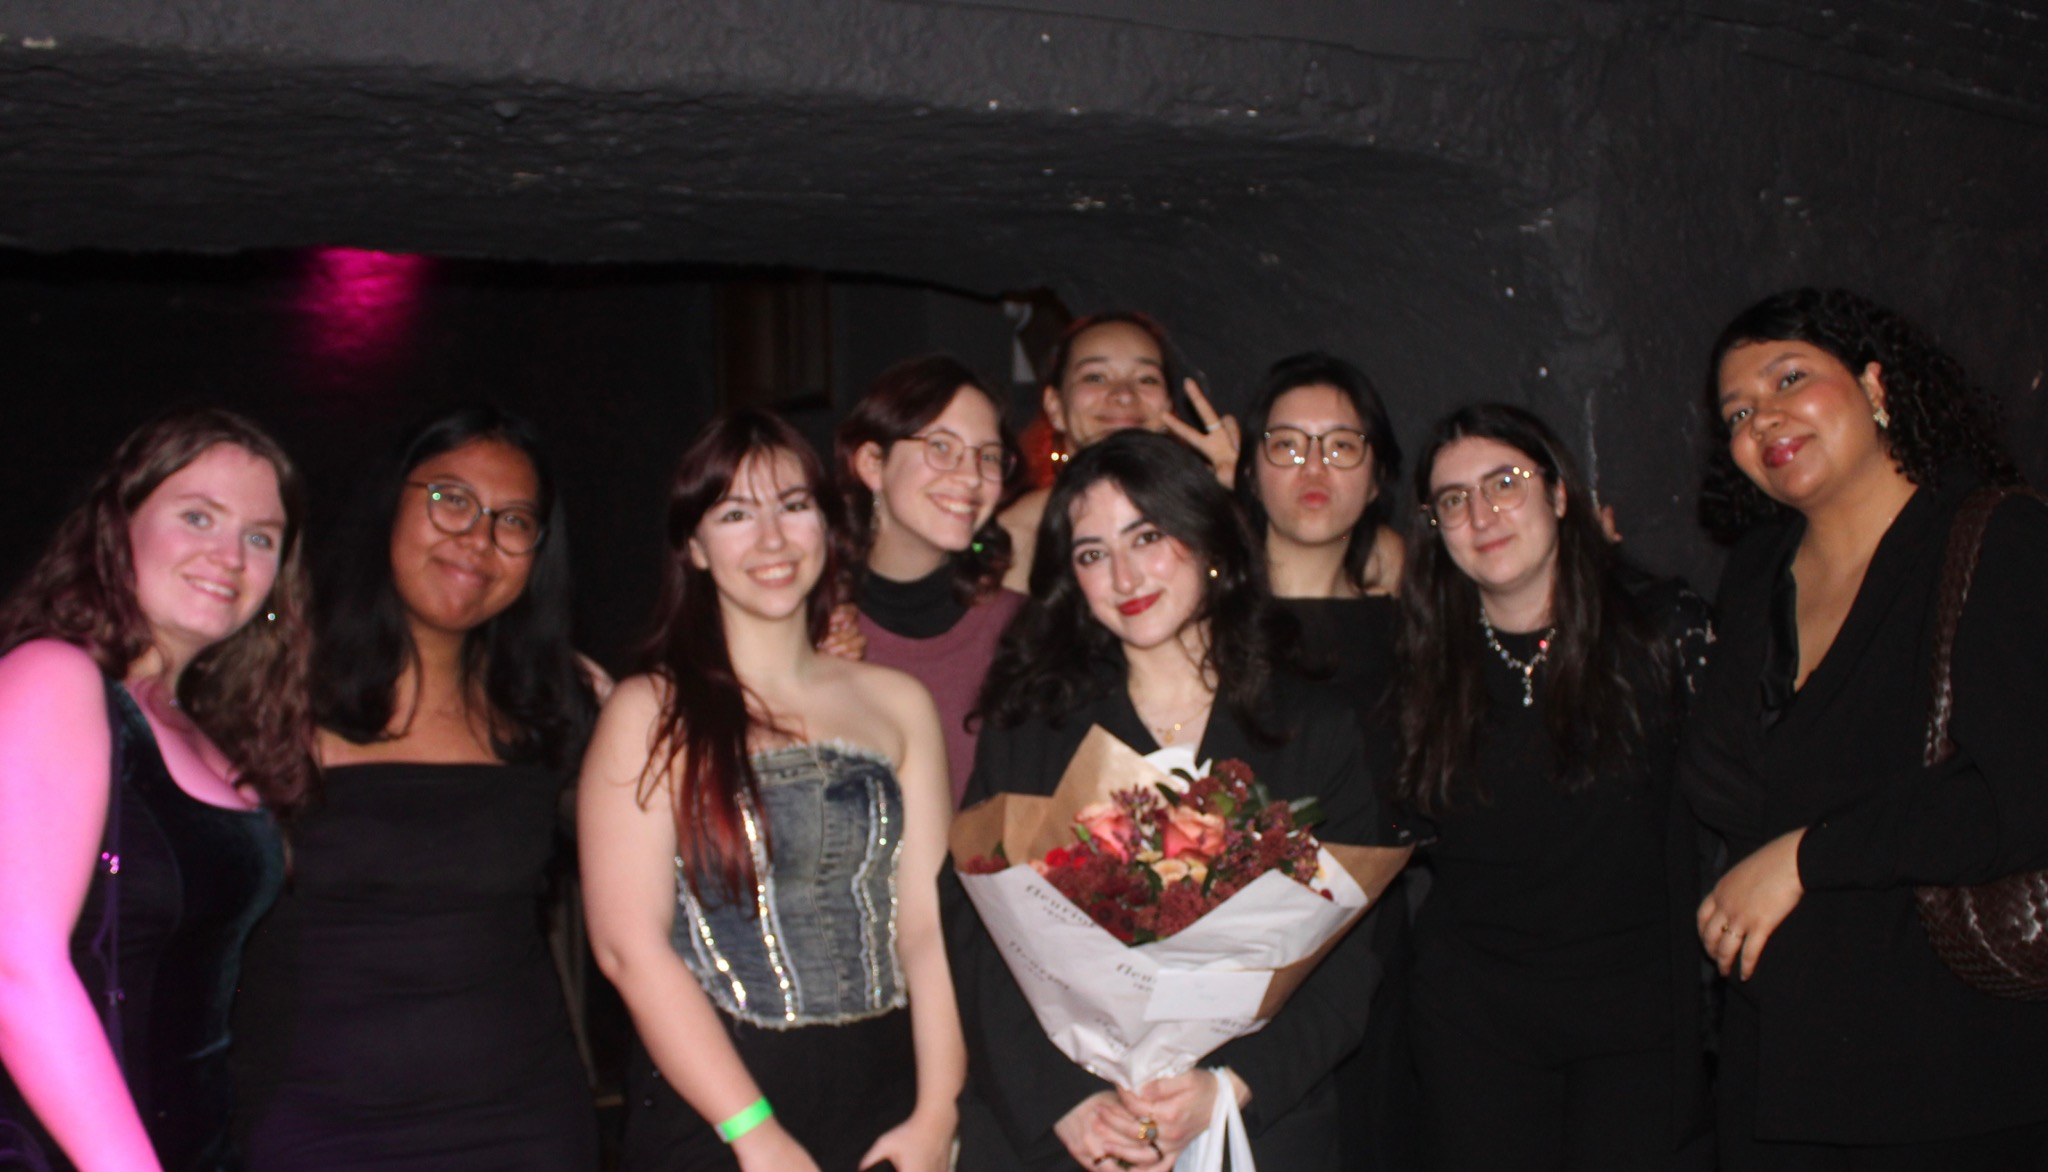
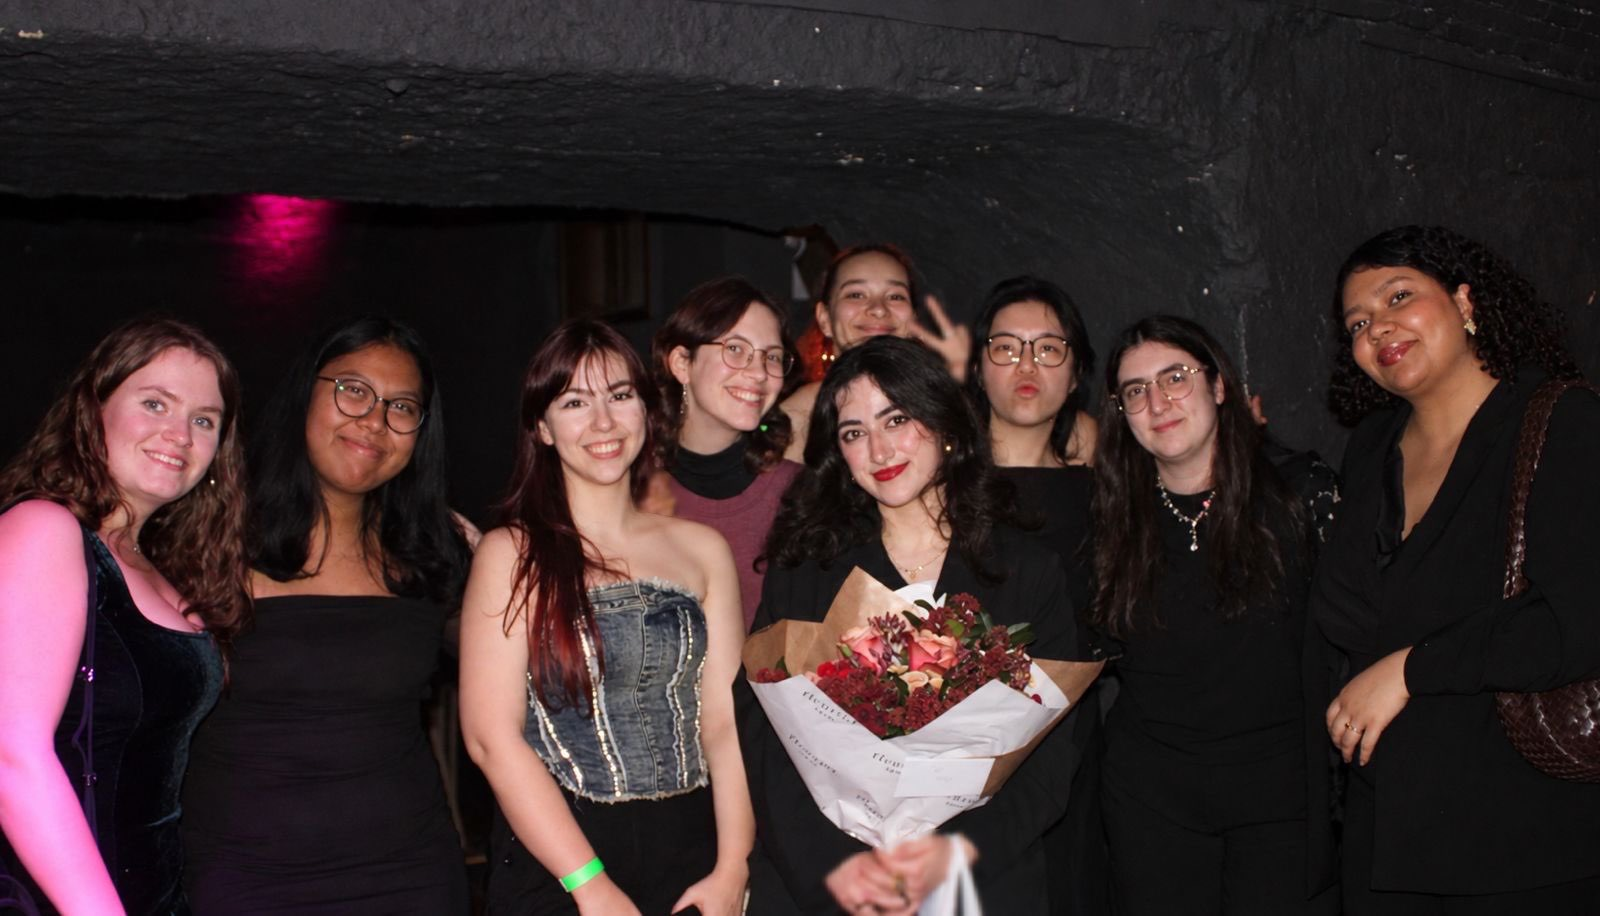
Update Business Development and Marketing photos and introduce Our Teams

diff --git a/index.html b/index.html
@@ -59,7 +59,7 @@
         <div class="section-heading">
           <div>
             <p class="eyebrow">Find your place</p>
-            <h2>Our departments</h2>
+            <h2>Our Teams</h2>
             <p style="margin:16px 0 0;color:var(--muted);max-width:620px">Explore each department's role, responsibilities and team.</p>
           </div>
         </div>
@@ -82,7 +82,7 @@
             <span class="card-body"><span class="card-number">04</span><strong>Finance and Legalities</strong><span>Keep our operations healthy and compliant.</span><span class="card-arrow" aria-hidden="true">&rarr;</span></span>
           </button>
           <button class="department-card" type="button" data-department="business" aria-haspopup="dialog">
-            <img src="assets/business-development.jpg?v=6d2fe7b4b4d1" alt="" width="1280" height="720" loading="lazy">
+            <img src="assets/business-development.jpg?v=fa41f36842e7" alt="" width="1280" height="720" loading="lazy">
             <span class="card-body"><span class="card-number">05</span><strong>Business Development</strong><span>Create partnerships and grow our impact.</span><span class="card-arrow" aria-hidden="true">&rarr;</span></span>
           </button>
           <button class="department-card" type="button" data-department="engage" aria-haspopup="dialog">
@@ -90,7 +90,7 @@
             <span class="card-body"><span class="card-number">06</span><strong>Engage with AIESEC</strong><span>Bring meaningful student events to life.</span><span class="card-arrow" aria-hidden="true">&rarr;</span></span>
           </button>
           <button class="department-card" type="button" data-department="marketing" aria-haspopup="dialog">
-            <img src="assets/marketing-communication.jpg?v=ba7ed4ec0924" alt="" width="1280" height="719" loading="lazy">
+            <img src="assets/marketing-communication.jpg?v=1502b5f71dfb" alt="" width="1280" height="719" loading="lazy">
             <span class="card-body"><span class="card-number">07</span><strong>Marketing and Communication</strong><span>Shape our voice and digital presence.</span><span class="card-arrow" aria-hidden="true">&rarr;</span></span>
           </button>
           <button class="department-card" type="button" data-department="relations" aria-haspopup="dialog">
@@ -152,13 +152,13 @@
     <article class="dialog-department"><img src="assets/finance-legalities.jpg?v=91dd61a0d931" alt="Finance and Legalities team at AIESEC in Geneva" width="1280" height="719"><div class="dialog-copy"><p class="department-number">04 / 08</p><h2 id="dialog-title">Finance and Legalities</h2><h3>Join F&amp;L and drive financial excellence in AIESEC</h3><p>The Finance and Legalities (F&amp;L) department is the backbone of AIESEC, ensuring the organization operates smoothly, transparently and sustainably. Aligned with AIESEC's global seven Finance Standards, F&amp;L plays a crucial role in maintaining financial health and legal compliance.</p><h4>As part of F&amp;L, you will:</h4><ul><li><strong>Manage budgets and financial planning</strong> to ensure efficient resource allocation.</li><li><strong>Handle transactions and accounting</strong> for smooth financial operations.</li><li><strong>Oversee legal compliance</strong> to ensure AIESEC operates within regulations.</li><li><strong>Conduct audits and risk management</strong> to maintain transparency and security.</li><li><strong>Work collaboratively on investments and financial strategy</strong> for long-term growth.</li></ul><p class="fit-note">If you are interested in finance, accounting or law and want to develop essential skills in financial management, F&amp;L is the place to gain hands-on experience.</p></div></article>
   </template>
   <template id="department-business">
-    <article class="dialog-department"><img src="assets/business-development.jpg?v=6d2fe7b4b4d1" alt="Business Development team at AIESEC in Geneva" width="1280" height="720"><div class="dialog-copy"><p class="department-number">05 / 08</p><h2 id="dialog-title">Business Development</h2><h3>Join BD and build game-changing partnerships</h3><p>The Business Development (BD) department is all about creating strategic partnerships that support AIESEC's initiatives and events. From securing sponsorships to collaborating with local businesses, BD plays a key role in enhancing the quality and impact of our activities.</p><h4>As part of BD, you will:</h4><ul><li><strong>Secure sponsorships and in-kind partnerships</strong> to fund and improve our events.</li><li><strong>Engage with local businesses</strong> through collaborations and giveaways.</li><li><strong>Research and reach out to potential partners</strong> via email, phone and direct meetings.</li><li><strong>Represent AIESEC in networking spaces</strong> by pitching our vision and forging meaningful connections.</li></ul><p class="fit-note">If you love negotiation, networking and business strategy, BD is where you can make a real impact while developing professional skills.</p></div></article>
+    <article class="dialog-department"><img src="assets/business-development.jpg?v=fa41f36842e7" alt="Business Development team at AIESEC in Geneva" width="1280" height="720"><div class="dialog-copy"><p class="department-number">05 / 08</p><h2 id="dialog-title">Business Development</h2><h3>Join BD and build game-changing partnerships</h3><p>The Business Development (BD) department is all about creating strategic partnerships that support AIESEC's initiatives and events. From securing sponsorships to collaborating with local businesses, BD plays a key role in enhancing the quality and impact of our activities.</p><h4>As part of BD, you will:</h4><ul><li><strong>Secure sponsorships and in-kind partnerships</strong> to fund and improve our events.</li><li><strong>Engage with local businesses</strong> through collaborations and giveaways.</li><li><strong>Research and reach out to potential partners</strong> via email, phone and direct meetings.</li><li><strong>Represent AIESEC in networking spaces</strong> by pitching our vision and forging meaningful connections.</li></ul><p class="fit-note">If you love negotiation, networking and business strategy, BD is where you can make a real impact while developing professional skills.</p></div></article>
   </template>
   <template id="department-engage">
     <article class="dialog-department"><img src="assets/engage-with-aiesec.jpg?v=07564f299d05" alt="Engage with AIESEC team in Geneva" width="1280" height="720"><div class="dialog-copy"><p class="department-number">06 / 08</p><h2 id="dialog-title">Engage with AIESEC (Project)</h2><h3>Join EwA and bring AIESEC to life on campus</h3><p>The Engage with AIESEC (EwA) department is the creative force behind all AIESEC events at the University of Geneva. Our mission is to organize impactful events that promote AIESEC's values and the UN Sustainable Development Goals (SDGs), inspiring students to take action.</p><h4>As part of EwA, you will:</h4><ul><li><strong>Plan and execute major events</strong> that engage and inspire students.</li><li><strong>Develop essential skills</strong> in event management, logistics and problem-solving.</li><li><strong>Collaborate with multiple departments</strong> including Marketing, Finance and BD to bring events to life.</li><li><strong>Gain a global perspective on AIESEC</strong> while making a tangible impact on campus.</li></ul><p class="fit-note">If you love event planning, teamwork and creating unforgettable experiences, EwA is the place for you.</p></div></article>
   </template>
   <template id="department-marketing">
-    <article class="dialog-department"><img src="assets/marketing-communication.jpg?v=ba7ed4ec0924" alt="Marketing and Communication team at AIESEC in Geneva" width="1280" height="719"><div class="dialog-copy"><p class="department-number">07 / 08</p><h2 id="dialog-title">Marketing and Communication</h2><h3>Join Marketing and Communication and shape AIESEC's voice</h3><p>The Marketing and Communication department is the driving force behind AIESEC in Geneva's brand identity, ensuring our message reaches and inspires the right audience. We blend creativity with strategy to engage students through digital content, campaigns and promotional materials.</p><h4>As part of Marketing and Communication, you will:</h4><ul><li><strong>Manage AIESEC's social media presence</strong> on Instagram, TikTok, LinkedIn and more.</li><li><strong>Create engaging content</strong> from eye-catching graphics to compelling videos.</li><li><strong>Develop strategic marketing campaigns</strong> to boost visibility and engagement.</li><li><strong>Align global branding with local innovation</strong> for maximum impact.</li></ul><p class="fit-note">If you are passionate about content creation, branding and digital marketing, this is your chance to bring your creativity to life and make a real impact.</p></div></article>
+    <article class="dialog-department"><img src="assets/marketing-communication.jpg?v=1502b5f71dfb" alt="Marketing and Communication team at AIESEC in Geneva" width="1280" height="719"><div class="dialog-copy"><p class="department-number">07 / 08</p><h2 id="dialog-title">Marketing and Communication</h2><h3>Join Marketing and Communication and shape AIESEC's voice</h3><p>The Marketing and Communication department is the driving force behind AIESEC in Geneva's brand identity, ensuring our message reaches and inspires the right audience. We blend creativity with strategy to engage students through digital content, campaigns and promotional materials.</p><h4>As part of Marketing and Communication, you will:</h4><ul><li><strong>Manage AIESEC's social media presence</strong> on Instagram, TikTok, LinkedIn and more.</li><li><strong>Create engaging content</strong> from eye-catching graphics to compelling videos.</li><li><strong>Develop strategic marketing campaigns</strong> to boost visibility and engagement.</li><li><strong>Align global branding with local innovation</strong> for maximum impact.</li></ul><p class="fit-note">If you are passionate about content creation, branding and digital marketing, this is your chance to bring your creativity to life and make a real impact.</p></div></article>
   </template>
   <template id="department-relations">
     <article class="dialog-department"><img src="assets/public-relations.jpg?v=34f6ef0c843f" alt="Public Relations team at AIESEC in Geneva" width="1280" height="719"><div class="dialog-copy"><p class="department-number">08 / 08</p><h2 id="dialog-title">Public Relations</h2><h3>Join PR and elevate AIESEC's presence</h3><p>The Public Relations (PR) department is the bridge between AIESEC and the external world, shaping our public image and fostering valuable connections. Through media outreach, strategic partnerships and high-impact networking, PR ensures that AIESEC remains a recognized and trusted organization.</p><h4>As part of PR, you will:</h4><ul><li><strong>Build and maintain relationships</strong> with businesses, institutions and media representatives.</li><li><strong>Manage AIESEC's public image</strong> through strategic communication and media outreach.</li><li><strong>Create networking opportunities</strong> to expand our influence and partnerships.</li><li><strong>Enhance AIESEC's credibility and visibility</strong> on a local and professional level.</li></ul><p class="fit-note">If you are passionate about strategic communication, networking and brand reputation, PR is the place to develop your skills and make a lasting impact.</p></div></article>
